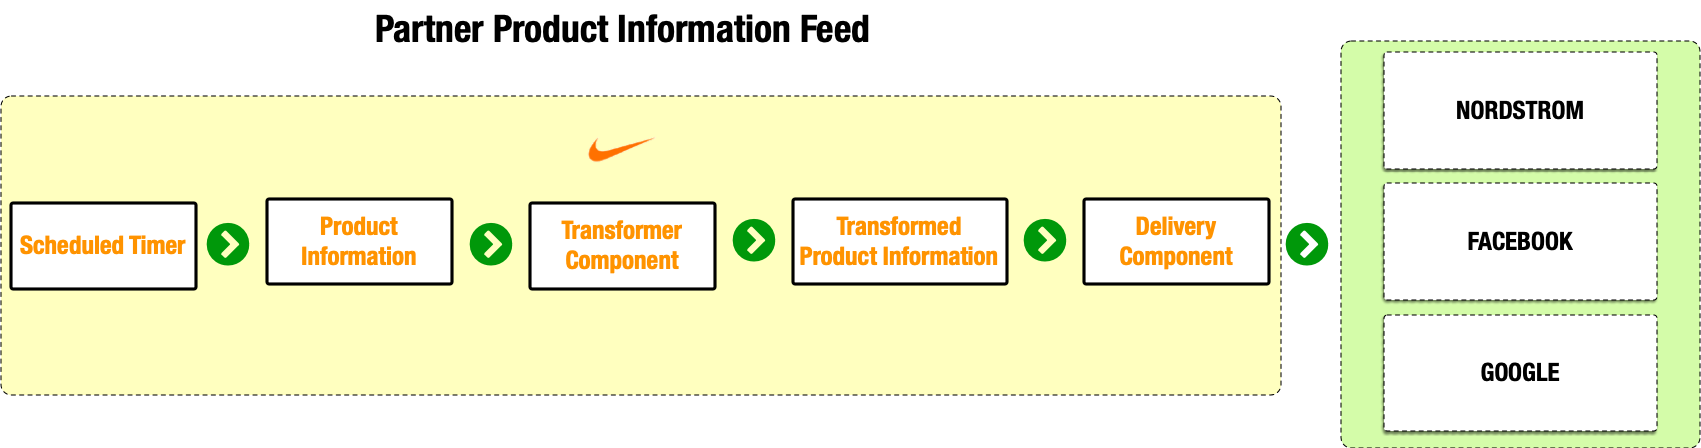
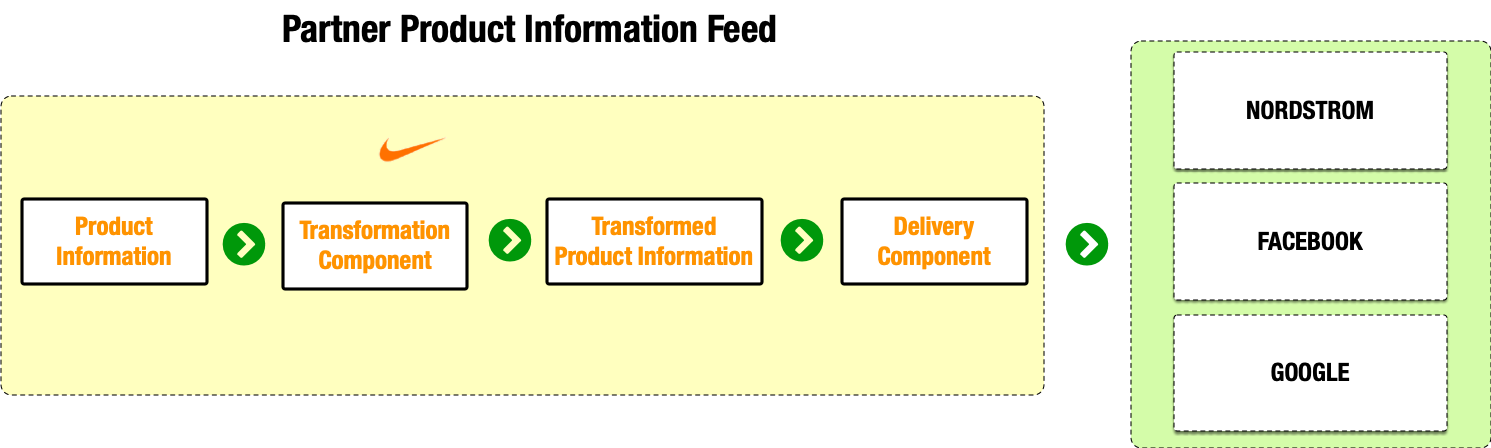
APID-543: renamed table from Default Fields to Sample Product Information Attributess, updated image, added feed can be pushed on demand.

diff --git a/content/doc/partner/product/use-partner-product-info.html b/content/doc/partner/product/use-partner-product-info.html
@@ -6,4 +6,4 @@ if (window.location.origin.includes('//nde-devportal-docs.niketech.com')){
 
     gtag('config', 'UA-133456231-1');
     }
-</script> <link rel="stylesheet" href="https://assets.commerce.nikecloud.com/ncss/glyphs/2.3/css/glyphs.min.css"/> <link rel="stylesheet" href="https://assets.commerce.nikecloud.com/ncss/1.0/dotcom/desktop/css/ncss.en-us.min.css"/> <link rel="stylesheet" href="https://use.fontawesome.com/releases/v5.7.1/css/all.css"> <link rel="stylesheet" href="/css/style.css"> <link rel="stylesheet" href="/css/aviator-two-column.css"> <link rel="stylesheet" href="/css/nde.css"> <title></title> </head> <body> <div id="toc"></div> <div class="main"> <h1 id="nike-partners---product-information-feed---draft">NIKE PARTNERS - PRODUCT INFORMATION FEED - DRAFT</h1> <hr/> <h5 id="last-updated-02282020">Last Updated: 02/28/2020</h5> <p>Nike’s Product Information Feed (PIF) pushes Nike products to partners on a scheduled basis.</p> <h2 id="introduction">Introduction</h2> <p>The PIF supplies information that partners need in order to sell Nike products to consumers through their ecommerce apps and experiences. Nike works closely with their partners to define a contract specifying the product data, data format, how often the partner needs the feed, and where to deliver it. Nike then sets up a configuration that customizes the feed to suit each partner’s needs.</p> <p>Let’s take a look at some quick facts about the PIF.</p> <h6 id="table-1-product-information-feed-at-a-glance">Table 1: Product Information Feed At a Glance</h6> <table> <tbody> <tr> <td><strong>Partner Types</strong></td> <td>Retail (e.g. Nordstrom), Consumer (e.g. Google, Facebook)</td> </tr> <tr> <td><strong>Countries</strong></td> <td>United States</td> </tr> <tr> <td><strong>Languages</strong></td> <td>English</td> </tr> <tr> <td><strong>Currencies</strong></td> <td>US dollars</td> </tr> <tr> <td><strong>Sizing</strong></td> <td>US</td> </tr> <tr> <td><strong>Delivery</strong></td> <td>Push of eligible products</td> </tr> </tbody> </table> <h2 id="product-information-feed-types">Product Information Feed Types</h2> <p>There are two types of PIFs, one for Retail Partners and one for Consumer Partners. The table below lists the key differences between the two feeds.</p> <h6 id="table-2-retail-partner-feed-vs-consumer-partner-feed">Table 2: Retail Partner Feed vs. Consumer Partner Feed</h6> <table> <thead> <tr> <th> </th> <th>Retail Partner</th> <th>Consumer Partner</th> </tr> </thead> <tbody> <tr> <td><strong>Products included</strong></td> <td>US line futures</td> <td>Entire US product line</td> </tr> <tr> <td><strong>Source of product data</strong></td> <td>Nike selects futures products for a particular retail partner (store) and season via the Nike Offerings API</td> <td>Monarch (style-color), Prodigy (copy, description, price, taxonomy), Asset Delivery (image and video)</td> </tr> <tr> <td><strong>Prices included</strong></td> <td>Wholesale and MSRP</td> <td>MSRP</td> </tr> <tr> <td><strong>Inventory</strong></td> <td>No inventory</td> <td>Has inventory and products are saleable immediately</td> </tr> <tr> <td><strong>How partner uses the feed</strong></td> <td>As a catalog of Nike futures products for an upcoming season to help in their ordering process</td> <td>To populate their ecommerce store with Nike Products and sell them to consumers</td> </tr> <tr> <td><strong>Season of products included</strong></td> <td>Includes products 6 months ahead of current season</td> <td>Products are not season-specific</td> </tr> </tbody> </table> <p>Now let’s dig a little deeper into how the PIF works for each type of partner.</p> <p><strong>Retail Partner Product Information Feed</strong></p> <p>The Retail Partner PIF contains products curated specifically for the retailer. Partners use the feed as a catalog from which to purchase Nike product for a future season.</p> <p>The Retail Partner PIF products are “futures”, meaning they will be available to the retail partner to sell to their consumers 6 months in the future. Since these products will be manufactured in the future, they have no inventory.</p> <p><strong>Consumer Partner Product Information Feed</strong></p> <p>The Consumer PIF contains Nike product that has inventory and is available for sale immediately. Unlike the futures products in the Retail Partner PIF, there is no season associated with the consumer partner PIF products.</p> <h2 id="how-does-the-product-information-feed-work">How does the Product Information Feed Work?</h2> <p><img src="/images/partner/product-info/partner-prod-info-sys-overview.png" alt="Product Info System Overview"/></p> <p>The PIF is made up of the transformation component and the delivery component.</p> <p><strong>Transformation Component</strong></p> <p>The transformation component ensures that the product data conforms to the partner’s PIF contract. This may include renaming and restructuring data so it is arranged the way the partner expects. For instance, the transformation component may need to change the field name from <code class="highlighter-rouge">styleNumber</code> in the source data to <code class="highlighter-rouge">STYLE NUMBER</code> in the PIF per the partner contract.</p> <p><strong>Delivery Component</strong></p> <p>The delivery component is responsible for getting the transformed data to the partner in the agreed format at the expected time. The delivery component is flexible in how it performs both.</p> <p>The delivery time and frequency of the PIF is configurable. Typically, it is pushed on a daily basis.</p> <p>The delivery component can push the PIF to partners in several ways. It can call partner APIs, push files to AWS S3 buckets and push files using SSH File Transfer Protocol (sFTP). It can also create PIFs in several file formats such as Comma-Separated Value (CSV) or Javascript Object Notation (JSON) format.</p> <blockquote> <p><strong>TIP:</strong> Currently, the PIF cannot deliver product updates made since the last time it ran. All eligible products are included in the PIF each time.</p> </blockquote> <p><strong>Default Fields</strong></p> <p>Nike offers a default schema of product fields common to all partners. At a minimum, both the Retail Partner and Consumer Partner PIF includes the fields listed in the table below.</p> <h6 id="table-3-default-product-information-feed-fields">Table 3: Default Product Information Feed Fields</h6> <table> <thead> <tr> <th>Field Name</th> <th>Example</th> </tr> </thead> <tbody> <tr> <td>Style Number</td> <td>315122</td> </tr> <tr> <td>Color Number</td> <td>111</td> </tr> <tr> <td>Style Name</td> <td>Nike Air Force 1 ‘07</td> </tr> <tr> <td>Description</td> <td>Hoops in the park, Sunday BBQs and sunshine. The radiance lives on in the Nike Air Force 1 ’07, the b-ball OG that puts a fresh spin on what you know best: crisp leather in an all-white colorway for a statement look on and off the court.</td> </tr> <tr> <td>Size</td> <td>M 6/W 7.5</td> </tr> <tr> <td>Price</td> <td>90</td> </tr> </tbody> </table> </div> <header> <form action="/search/index.html" method="get"> <input type="text" name="q" id="search-input" placeholder="Search"> <input type="submit" value="Search" style="display: none;"> </form> <div id="sidebar" class="sidebar"> <section> <a style="color:#ffffff;border-radius:5px;padding-left:0px;letter-spacing:0.3px;" href="slack://channel?team=T0G3T5X2B&amp;id=C6A18NT7W" class="headline-md-brand ncss-btn-primary-dark"><i class="g72-alert"></i>&nbsp;&nbsp;FIND AN ISSUE? SLACK US!</a> <h6><a href="/index.html" class="toctitle"><i class="fas fa-home"></i>&nbsp;Commerce Docs Home</a></h6><h6><a href="/doc/portal/overview-doc-team.html" class="toctitle"><i class="fas fa-info-circle"></i> Team Services</a></h6><h6><span name="0-get-started" class="toggle"><i class="fas fa-play-circle"></i> Get Started</span></h6> <ul id="0-get-started" class="hide"><li> <a href="/doc/getting-started/using-nike-apis.html" class="">Using Nike APIs</a><li><a href="https://confluence.nike.com/pages/viewpage.action?spaceKey=NEA&title=API+Standards" target="blank">API Standards</a></li><li><a href="https://github.nike.com/nde-architecture/principles" target="blank">Architectural Principles</a></li></li></ul><h6><span name="a-overview" class="toggle"><i class="fas fa-cogs"></i> Overviews</span></h6> <ul id="a-overview" class="hide"><li> <a href="/doc/commerce/product/overview-product-feeds.html" class="">Product Feeds</a></li><li> <a href="/doc/commerce/product/overview-rollup-threads.html" class="">Rollup Threads</a></li><li> <a href="/doc/commerce/customization/overview-customization.html" class="">Customization</a></li><li> <a href="/doc/commerce/checkout/overview-checkout.html" class="">Cart & Checkout</a></li><li> <a href="/doc/commerce/checkout/overview-fulfillment-offerings.html" class="">Fulfillment Offerings</a></li><li> <a href="/doc/commerce/payment/overview-payment.html" class="">Payment</a></li><li> <a href="/doc/taxonomy/overview-taxonomy-tagging.html" class="">Taxonomy Tagging for Assets and Content</a></li><li> <a href="/doc/commerce/order/overview-order.html" class="">Order</a></li><li> <a href="/doc/commerce/uxf/overview-uxf.html" class="">UX Foundation</a></li><li> <a href="/doc/commerce/events/overview-events.html" class="">Events</a></li><li> <a href="/doc/commerce/search/nacl.html" class="">Admin Client Library</a></li></ul><h6><span name="b-use-case" class="toggle"><i class="fas fa-map"></i> Developer's Guides</span></h6> <ul id="b-use-case" class="hide"><li> <a href="/doc/commerce/product/use-product-feeds.html" class="">Product Feeds</a></li><li> <a href="/doc/commerce/product/use-rollup-threads.html" class="">Rollup Threads</a></li><li> <a href="/doc/commerce/customization/use-customization.html" class="">Customization</a></li><li> <a href="/doc/commerce/search/use-search.html" class="">Search</a></li><li> <a href="/doc/commerce/payment/use-payment.html" class="">Payment</a></li><li> <a href="/doc/commerce/checkout/use-checkout.html" class="">Cart, Checkout, and Wish Lists</a></li><li> <a href="/doc/commerce/checkout/use-fulfillment-offerings.html" class="">Fulfillment Offerings</a></li><li> <a href="/doc/commerce/product/capi-migration.html" class="">CAPI Migration</a></li><li> <a href="/doc/commerce/events/use-eventsv2.html" class="">Events</a></li><li> <a href="/doc/commerce/order/use-order.html" class="">Order</a></li><li> <a href="/doc/commerce/product/use-merch-product.html" class="">Merch Product</a></li></ul><h6><span name="d-reference" class="toggle"><i class="fas fa-book-open"></i> Reference</span></h6> <ul id="d-reference" class="hide"><li> <a href="/doc/commerce/customization/builder-reference.html" class="">Customization Builder</a></li><li> <a href="/doc/commerce/reference/caller-best-practices.html" class="">Circuit Breaker Best Practices</a></li><li> <a href="/doc/commerce/reference/glossary.html" class="">Glossary</a></li><li> <a href="/doc/commerce/reference/product-lifecycle.html" class="">Product Life Cycle</a></li><li> <a href="/doc/commerce/checkout/checkout-country-currency.html" class="">Countries & Currencies</a></li><li> <a href="/doc/commerce/reference/global.html" class="">Countries, Channels, Brands</a></li><li> <a href="/doc/commerce/product/merch-product-field-reference.html" class="">Merch Product Fields</a></li></ul><h6><span name="community" class="toggle"><i class="far fa-comments"></i> Community</span></h6><ul id="community" class="hide"><li><a href="https://zero.nike.com/home/sites/nikedirect/archives?tag=digital%20engineering%20blog" target="blank">Engineering Blog</a></li><li><a href="https://cop-playbook.niketech.com/" target="_blank">COP Playbook</a></li><li><a href="https://nike-inc.github.io/" target="_blank">Nike OSS</a></li></ul> </section> </div> </header> </body> </html>
+</script> <link rel="stylesheet" href="https://assets.commerce.nikecloud.com/ncss/glyphs/2.3/css/glyphs.min.css"/> <link rel="stylesheet" href="https://assets.commerce.nikecloud.com/ncss/1.0/dotcom/desktop/css/ncss.en-us.min.css"/> <link rel="stylesheet" href="https://use.fontawesome.com/releases/v5.7.1/css/all.css"> <link rel="stylesheet" href="/css/style.css"> <link rel="stylesheet" href="/css/aviator-two-column.css"> <link rel="stylesheet" href="/css/nde.css"> <title></title> </head> <body> <div id="toc"></div> <div class="main"> <h1 id="nike-partners---product-information-feed---draft">NIKE PARTNERS - PRODUCT INFORMATION FEED - DRAFT</h1> <hr/> <h5 id="last-updated-03092020">Last Updated: 03/09/2020</h5> <p>Nike’s Product Information Feed (PIF) pushes Nike product information to partners. The PIF can be pushed on demand or on a scheduled basis.</p> <h2 id="introduction">Introduction</h2> <p>The PIF supplies information that partners need in order to sell Nike products to consumers through their ecommerce apps and experiences. Nike works closely with their partners to define a contract specifying the product data, data format, how often the partner needs the feed, and where to deliver it. Nike then sets up a configuration that customizes the feed to suit each partner’s needs.</p> <p>Let’s take a look at some quick facts about the PIF.</p> <h6 id="table-1-product-information-feed-at-a-glance">Table 1: Product Information Feed At a Glance</h6> <table> <tbody> <tr> <td><strong>Partner Types</strong></td> <td>Retail (e.g. Nordstrom), Consumer (e.g. Google, Facebook)</td> </tr> <tr> <td><strong>Countries</strong></td> <td>United States</td> </tr> <tr> <td><strong>Languages</strong></td> <td>English</td> </tr> <tr> <td><strong>Currencies</strong></td> <td>US dollars</td> </tr> <tr> <td><strong>Sizing</strong></td> <td>US</td> </tr> <tr> <td><strong>Delivery Method</strong></td> <td>Push of eligible products</td> </tr> </tbody> </table> <h2 id="product-information-feed-types">Product Information Feed Types</h2> <p>There are two types of PIFs, one for Retail Partners and one for Consumer Partners. The table below lists the key differences between the two feeds.</p> <h6 id="table-2-retail-partner-feed-vs-consumer-partner-feed">Table 2: Retail Partner Feed vs. Consumer Partner Feed</h6> <table> <thead> <tr> <th> </th> <th>Retail Partner</th> <th>Consumer Partner</th> </tr> </thead> <tbody> <tr> <td><strong>Products included</strong></td> <td>US line futures</td> <td>Entire US product line</td> </tr> <tr> <td><strong>Source of product data</strong></td> <td>Nike selects futures products for a particular retail partner (store) and season via the Nike Offerings API</td> <td>Monarch (style-color), Prodigy (copy, description, price, taxonomy), Asset Delivery (image and video)</td> </tr> <tr> <td><strong>Prices included</strong></td> <td>Wholesale and MSRP</td> <td>MSRP</td> </tr> <tr> <td><strong>Inventory</strong></td> <td>No inventory</td> <td>Has inventory and products are saleable immediately</td> </tr> <tr> <td><strong>How partner uses the feed</strong></td> <td>As a catalog of Nike futures products for an upcoming season to help in their ordering process</td> <td>To populate their ecommerce store with Nike Products and sell them to consumers</td> </tr> <tr> <td><strong>Season of products included</strong></td> <td>Includes products 6 months ahead of current season</td> <td>Products are not season-specific</td> </tr> </tbody> </table> <p>Now let’s dig a little deeper into how the PIF works for each type of partner.</p> <p><strong>Retail Partner Product Information Feed</strong></p> <p>The Retail Partner PIF contains products curated specifically for the retailer. Partners use the feed as a catalog from which to purchase Nike product for a future season.</p> <p>The Retail Partner PIF products are “futures”, meaning they will be available to the retail partner to sell to their consumers 6 months in the future. Since these products will be manufactured in the future, they have no inventory.</p> <p><strong>Consumer Partner Product Information Feed</strong></p> <p>The Consumer PIF contains Nike products that have inventory and are available for sale immediately. Unlike the futures products in the Retail Partner PIF, there is no season associated with the consumer partner PIF products.</p> <h2 id="how-does-the-product-information-feed-work">How does the Product Information Feed Work?</h2> <p><img src="/images/partner/product-info/partner-prod-info-sys-overview.png" alt="Product Info System Overview"/></p> <p>The PIF is made up of the Transformation component and the Delivery component.</p> <p><strong>Transformation Component</strong></p> <p>The transformation component ensures that the product data conforms to the partner’s PIF contract. This may include renaming and restructuring data so it is arranged the way the partner expects. For instance, the transformation component may need to change the attribute name from <code class="highlighter-rouge">styleNumber</code> in the source data to <code class="highlighter-rouge">STYLE NUMBER</code> in the PIF per the partner contract.</p> <p><strong>Delivery Component</strong></p> <p>The delivery component is responsible for getting the transformed data to the partner in the agreed format at the expected time. The delivery component is flexible in how it performs both.</p> <p>The delivery time and frequency of the PIF is configurable. Typically, it is pushed on a daily basis. The PIF can also be pushed on demand.</p> <p>The delivery component can push the PIF to partners in several ways. It can call partner APIs, push files to AWS S3 buckets and push files using SSH File Transfer Protocol (sFTP). It can also create PIFs in several file formats such as Comma-Separated Value (CSV) or Javascript Object Notation (JSON) format.</p> <blockquote> <p><strong>TIP:</strong> Currently, the PIF cannot deliver product updates made since the last time it ran. All eligible products are included in the PIF each time.</p> </blockquote> <p><strong>Sample Product Information Feed Attributes</strong></p> <p>The PIF attributes vary according to partner contract. The table below lists some sample attributes.</p> <h6 id="table-3-sample-product-information-feed-attributes">Table 3: Sample Product Information Feed Attributes</h6> <table> <thead> <tr> <th>Attribute Name</th> <th>Description</th> <th>Example</th> </tr> </thead> <tbody> <tr> <td>Style Number</td> <td>Nike style number</td> <td>315122</td> </tr> <tr> <td>Color Number</td> <td>Nike color number</td> <td>111</td> </tr> <tr> <td>Style Name</td> <td>Name of style</td> <td>Nike Air Force 1 ‘07</td> </tr> <tr> <td>Description</td> <td>Description of style-color</td> <td>Hoops in the park, Sunday BBQs and sunshine. The radiance lives on in the Nike Air Force 1 ’07, the b-ball OG that puts a fresh spin on what you know best: crisp leather in an all-white colorway for a statement look on and off the court.</td> </tr> <tr> <td>Size</td> <td>Size of SKU</td> <td>M 6/W 7.5</td> </tr> <tr> <td>Price</td> <td>Price of SKU</td> <td>90</td> </tr> <tr> <td>GTIN</td> <td>Global Trade Item Number of SKU</td> <td>00091205776746</td> </tr> </tbody> </table> </div> <header> <form action="/search/index.html" method="get"> <input type="text" name="q" id="search-input" placeholder="Search"> <input type="submit" value="Search" style="display: none;"> </form> <div id="sidebar" class="sidebar"> <section> <a style="color:#ffffff;border-radius:5px;padding-left:0px;letter-spacing:0.3px;" href="slack://channel?team=T0G3T5X2B&amp;id=C6A18NT7W" class="headline-md-brand ncss-btn-primary-dark"><i class="g72-alert"></i>&nbsp;&nbsp;FIND AN ISSUE? SLACK US!</a> <h6><a href="/index.html" class="toctitle"><i class="fas fa-home"></i>&nbsp;Commerce Docs Home</a></h6><h6><a href="/doc/portal/overview-doc-team.html" class="toctitle"><i class="fas fa-info-circle"></i> Team Services</a></h6><h6><span name="0-get-started" class="toggle"><i class="fas fa-play-circle"></i> Get Started</span></h6> <ul id="0-get-started" class="hide"><li> <a href="/doc/getting-started/using-nike-apis.html" class="">Using Nike APIs</a><li><a href="https://confluence.nike.com/pages/viewpage.action?spaceKey=NEA&title=API+Standards" target="blank">API Standards</a></li><li><a href="https://github.nike.com/nde-architecture/principles" target="blank">Architectural Principles</a></li></li></ul><h6><span name="a-overview" class="toggle"><i class="fas fa-cogs"></i> Overviews</span></h6> <ul id="a-overview" class="hide"><li> <a href="/doc/commerce/product/overview-product-feeds.html" class="">Product Feeds</a></li><li> <a href="/doc/commerce/product/overview-rollup-threads.html" class="">Rollup Threads</a></li><li> <a href="/doc/commerce/customization/overview-customization.html" class="">Customization</a></li><li> <a href="/doc/commerce/checkout/overview-checkout.html" class="">Cart & Checkout</a></li><li> <a href="/doc/commerce/checkout/overview-fulfillment-offerings.html" class="">Fulfillment Offerings</a></li><li> <a href="/doc/commerce/payment/overview-payment.html" class="">Payment</a></li><li> <a href="/doc/taxonomy/overview-taxonomy-tagging.html" class="">Taxonomy Tagging for Assets and Content</a></li><li> <a href="/doc/commerce/order/overview-order.html" class="">Order</a></li><li> <a href="/doc/commerce/uxf/overview-uxf.html" class="">UX Foundation</a></li><li> <a href="/doc/commerce/events/overview-events.html" class="">Events</a></li><li> <a href="/doc/commerce/search/nacl.html" class="">Admin Client Library</a></li></ul><h6><span name="b-use-case" class="toggle"><i class="fas fa-map"></i> Developer's Guides</span></h6> <ul id="b-use-case" class="hide"><li> <a href="/doc/commerce/product/use-product-feeds.html" class="">Product Feeds</a></li><li> <a href="/doc/commerce/product/use-rollup-threads.html" class="">Rollup Threads</a></li><li> <a href="/doc/commerce/customization/use-customization.html" class="">Customization</a></li><li> <a href="/doc/commerce/search/use-search.html" class="">Search</a></li><li> <a href="/doc/commerce/payment/use-payment.html" class="">Payment</a></li><li> <a href="/doc/commerce/checkout/use-checkout.html" class="">Cart, Checkout, and Wish Lists</a></li><li> <a href="/doc/commerce/checkout/use-fulfillment-offerings.html" class="">Fulfillment Offerings</a></li><li> <a href="/doc/commerce/product/capi-migration.html" class="">CAPI Migration</a></li><li> <a href="/doc/commerce/events/use-eventsv2.html" class="">Events</a></li><li> <a href="/doc/commerce/order/use-order.html" class="">Order</a></li><li> <a href="/doc/commerce/product/use-merch-product.html" class="">Merch Product</a></li></ul><h6><span name="d-reference" class="toggle"><i class="fas fa-book-open"></i> Reference</span></h6> <ul id="d-reference" class="hide"><li> <a href="/doc/commerce/customization/builder-reference.html" class="">Customization Builder</a></li><li> <a href="/doc/commerce/reference/caller-best-practices.html" class="">Circuit Breaker Best Practices</a></li><li> <a href="/doc/commerce/reference/glossary.html" class="">Glossary</a></li><li> <a href="/doc/commerce/reference/product-lifecycle.html" class="">Product Life Cycle</a></li><li> <a href="/doc/commerce/checkout/checkout-country-currency.html" class="">Countries & Currencies</a></li><li> <a href="/doc/commerce/reference/global.html" class="">Countries, Channels, Brands</a></li><li> <a href="/doc/commerce/product/merch-product-field-reference.html" class="">Merch Product Fields</a></li></ul><h6><span name="community" class="toggle"><i class="far fa-comments"></i> Community</span></h6><ul id="community" class="hide"><li><a href="https://zero.nike.com/home/sites/nikedirect/archives?tag=digital%20engineering%20blog" target="blank">Engineering Blog</a></li><li><a href="https://cop-playbook.niketech.com/" target="_blank">COP Playbook</a></li><li><a href="https://nike-inc.github.io/" target="_blank">Nike OSS</a></li></ul> </section> </div> </header> </body> </html>

diff --git a/src/doc/partner/product/use-partner-product-info.md b/src/doc/partner/product/use-partner-product-info.md
@@ -5,9 +5,9 @@
 
 ---
 
-##### Last Updated: 02/28/2020
+##### Last Updated: 03/09/2020
 
-Nike's Product Information Feed (PIF) pushes Nike products to partners on a scheduled basis.
+Nike's Product Information Feed (PIF) pushes Nike product information to partners. The PIF can be pushed on demand or on a scheduled basis.
 
 
 ## Introduction
@@ -24,7 +24,7 @@ Let's take a look at some quick facts about the PIF.
 |**Languages**|English|
 |**Currencies**|US dollars|
 |**Sizing**|US|
-|**Delivery**|Push of eligible products|
+|**Delivery Method**|Push of eligible products|
 
 ## Product Information Feed Types
 
@@ -51,41 +51,42 @@ The Retail Partner PIF products are "futures", meaning they will be available to
 
 **Consumer Partner Product Information Feed**
 
-The Consumer PIF contains Nike product that has inventory and is available for sale immediately. Unlike the futures products in the Retail Partner PIF, there is no season associated with the consumer partner PIF products.
+The Consumer PIF contains Nike products that have inventory and are available for sale immediately. Unlike the futures products in the Retail Partner PIF, there is no season associated with the consumer partner PIF products.
 
 ## How does the Product Information Feed Work?
 
 ![Product Info System Overview](/images/partner/product-info/partner-prod-info-sys-overview.png)
 
-The PIF is made up of the transformation component and the delivery component.
+The PIF is made up of the Transformation component and the Delivery component.
 
 
 **Transformation Component**
 
-The transformation component ensures that the product data conforms to the partner's PIF contract. This may include renaming and restructuring data so it is arranged the way the partner expects. For instance, the transformation component may need to change the field name from `styleNumber` in the source data to `STYLE NUMBER` in the PIF per the partner contract.
+The transformation component ensures that the product data conforms to the partner's PIF contract. This may include renaming and restructuring data so it is arranged the way the partner expects. For instance, the transformation component may need to change the attribute name from `styleNumber` in the source data to `STYLE NUMBER` in the PIF per the partner contract.
 
 **Delivery Component**
 
 The delivery component is responsible for getting the transformed data to the partner in the agreed format at the expected time. The delivery component is flexible in how it performs both.
 
-The delivery time and frequency of the PIF is configurable. Typically, it is pushed on a daily basis.
+The delivery time and frequency of the PIF is configurable. Typically, it is pushed on a daily basis. The PIF can also be pushed on demand.
 
 The delivery component can push the PIF to partners in several ways. It can call partner APIs, push files to AWS S3 buckets and push files using SSH File Transfer Protocol (sFTP). It can also create PIFs in several file formats such as Comma-Separated Value (CSV) or Javascript Object Notation (JSON) format.
 
 >**TIP:** Currently, the PIF cannot deliver product updates made since the last time it ran. All eligible products are included in the PIF each time.
 
-**Default Fields**
+**Sample Product Information Feed Attributes**
 
-Nike offers a default schema of product fields common to all partners. At a minimum, both the Retail Partner and Consumer Partner PIF includes the fields listed in the table below.
+The PIF attributes vary according to partner contract. The table below lists some sample attributes.
 
-###### Table 3: Default Product Information Feed Fields
+###### Table 3: Sample Product Information Feed Attributes
 
-|Field Name|Example|
+|Attribute Name|Description|Example|
 |---|---|
-|Style Number|315122|
-|Color Number|111|
-|Style Name|Nike Air Force 1 '07|
-|Description|Hoops in the park, Sunday BBQs and sunshine. The radiance lives on in the Nike Air Force 1 ’07, the b-ball OG that puts a fresh spin on what you know best: crisp leather in an all-white colorway for a statement look on and off the court.|
-|Size|M 6/W 7.5|
-|Price|90|
+|Style Number|Nike style number|315122|
+|Color Number|Nike color number|111|
+|Style Name|Name of style|Nike Air Force 1 '07|
+|Description|Description of style-color|Hoops in the park, Sunday BBQs and sunshine. The radiance lives on in the Nike Air Force 1 ’07, the b-ball OG that puts a fresh spin on what you know best: crisp leather in an all-white colorway for a statement look on and off the court.|
+|Size|Size of SKU|M 6/W 7.5|
+|Price|Price of SKU|90|
+|GTIN|Global Trade Item Number of SKU|00091205776746|
 
